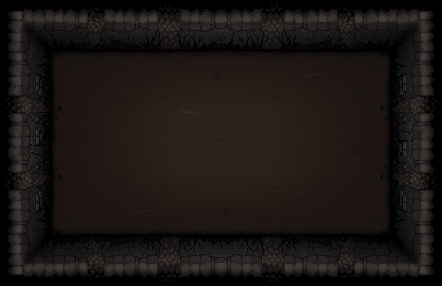
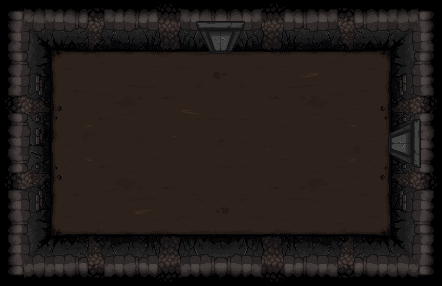
agregado cartas animacion con scroll

diff --git a/src/components/SectionImage/SectionImage.module.css b/src/components/SectionImage/SectionImage.module.css
@@ -1,46 +1,51 @@
-.container_section{
-    image-rendering: pixelated;
-    padding-top: 10rem;
-    padding-bottom: 10rem;
-    width:100%;
-    position: sticky;
-    top: -32%;
-    .scene{
-        overflow: hidden;
-        position: relative;
-        display: flex;
-        align-items: center;
-        justify-content: center;
-        background-repeat: no-repeat;
+
+.container_s{
+    margin-top: 5rem;
+    margin-bottom: 5rem;
+    .container_section{
         width: 100vw;
-        height: calc(100vw * 11 / 17);
-        background-size:contain;
-        background-position: center;
-
-        .shadow{
+        position: sticky;
+        top: calc(-15.2% + 100px);
+        .scene{
             image-rendering: pixelated;
-            position: absolute;
-            top: 0px;
-            bottom: 0px;
-            margin: auto 0 auto 0;
-            right: -4%;
-            width: 100%;
-            height: 110%;
+            image-rendering: crisp-edges;
+            position: relative;
+            display: flex;
+            align-items: center;
+            justify-content: center;
             background-repeat: no-repeat;
-            background-size: cover;
-            background-position: right;
-            transform-origin: right;
-            animation: moveshadow_right 7.3s ease-in-out infinite alternate;
-
-            &:nth-last-child(2){
-                left: -5%;
-                background-position: left;
-                transform-origin: left;
-                animation: moveshadow_left 7.5s ease-in-out infinite alternate;
+            width: 100vw;
+            height: calc(100vw * 11 / 17);
+            background-size:contain;
+            background-position: center;
+            .shadow{
+                image-rendering: pixelated;
+                position: absolute;
+                top: 0px;
+                bottom: 0px;
+                margin: auto 0 auto 0;
+                right: -4%;
+                width: 100%;
+                height: 110%;
+                background-repeat: no-repeat;
+                background-size: cover;
+                background-position: right;
+                transform-origin: right;
+                animation: moveshadow_right 7.3s ease-in-out infinite alternate;
+    
+                &:nth-of-type(2){
+                    left: -5%;
+                    background-position: left;
+                    transform-origin: left;
+                    animation: moveshadow_left 7.5s ease-in-out infinite alternate;
+                }
             }
+    
+            
         }
     }
 }
+
 
 @keyframes moveshadow_right {
     to{

diff --git a/src/components/SectionInfo/SectionInfo.tsx b/src/components/SectionInfo/SectionInfo.tsx
@@ -15,27 +15,29 @@ const SectionInfo = ({ scrollYProgress }: SectionInfoProps) => {
     console.log(latest);
   });
 
-  const x = useTransform(scrollYProgress, [0.04, 0.25, 0.40, 0.55], [0, 55, 55,0]);
-  const opacityLeft = useTransform(scrollYProgress, [0.04, 0.25, 0.40, 0.55], [0, 1,1,0]);
-  const opacityRight = useTransform(scrollYProgress, [0.65, 0.80, 0.90, 0.95], [0, 1,1,0]);
+  const xleft = useTransform(scrollYProgress, [0.25, 0.55], [0, 60]);
+  const xright = useTransform(scrollYProgress, [0.60,  0.90], [0, -60]);
+  const opacityLeft = useTransform(scrollYProgress, [0.25, 0.32, 0.48, 0.55], [0, 1,1,0]);
+  const opacityRight = useTransform(scrollYProgress, [0.60, 0.67, 0.83, 0.90], [0, 1,1,0]);
 
-  const xSmooth = useSpring(x, { stiffness: 50, damping: 10 });
-
+  const xSmoothLeft = useSpring(xleft, { stiffness:150, damping: 20});
+  const opacitySmoothLeft = useSpring(opacityLeft, { stiffness:300, damping: 30});
+  const xSmoothRight = useSpring(xright, {  stiffness:150, damping: 20});
+  const opacitySmoothRight = useSpring(opacityRight, { stiffness:300, damping: 30});
   return (
     <div className={styles.container_section_info}>
       <motion.div
-        style={{ opacity: opacityLeft, x: xSmooth, transition: "linear" }}
+        style={{ opacity: opacitySmoothLeft, x: xSmoothLeft}}
         className={styles.info_left}
       >
-        <h1>ENEMIGOS MORTALES</h1>
+        <div className={styles.monster} style={{backgroundImage:"url(/img/monsters/vis.png)"}}>
+        </div>
+        <h1>ENEMIGOS</h1>
         <p>
-          Enfréntate a todo tipo de enemigos mientras exploras las oscuras y
-          retorcidas habitaciones del sotanó. Desde pequeñas criaturas hasta
-          horribles abominaciones, cada enemigo tiene su propio patrón de ataque
-          y mecánicas únicas.
+        "Enfréntate a diversas criaturas en las sombrías habitaciones del sótano. Cada enemigo tiene ataques y mecánicas únicas que pondrán a prueba tu habilidad."
         </p>
       </motion.div>
-      <motion.div style={{opacity: opacityRight}} className={styles.info_right}>
+      <motion.div style={{opacity: opacitySmoothRight, x:xSmoothRight }} className={styles.info_right}>
         <p>
           "Aprende a esquivar, atacar y sacar el máximo provecho de los objetos
           a tu disposición. ¿Tienes lo necesario para sobrevivir en este

diff --git a/src/components/SectionImage/SectionImage.tsx b/src/components/SectionImage/SectionImage.tsx
@@ -1,19 +1,18 @@
-import React, {
-  useEffect,
-  useRef,
-  useState,
-} from "react";
+import React, { useEffect, useRef, useState } from "react";
 import styles from "./SectionImage.module.css";
-import { motion, MotionValue, useMotionValueEvent, useScroll, useTransform } from "framer-motion";
+import { motion, MotionValue, useScroll, useTransform } from "framer-motion";
 
 interface PropsImagen {
   src: string;
   floor: string;
   height: string;
-  children?: React.ReactNode | ((ScrollYProgressValue: MotionValue<number>) => React.ReactNode);
+  name?: string;
+  children?:
+    | React.ReactNode
+    | ((ScrollYProgressValue: MotionValue<number>) => React.ReactNode);
 }
 
-const SectionImage = ({ src, floor, height, children }: PropsImagen) => {
+const SectionImage = ({ src, floor, height, name, children }: PropsImagen) => {
   const [typeFloor, setTypeFloor] = useState<String>(floor);
   const shadowRef1 = useRef<HTMLDivElement | null>(null);
   const shadowRef2 = useRef<HTMLDivElement | null>(null);
@@ -32,24 +31,31 @@ const SectionImage = ({ src, floor, height, children }: PropsImagen) => {
 
   const { scrollYProgress } = useScroll({
     target: scrollRef,
+    offset:["start end", "end end"]
   });
 
-  const scale = useTransform(scrollYProgress, [0.5,0.8],[1,2])
+  const yscroll = useTransform(scrollYProgress,[0,1],[0,-100])
 
   return (
-    <motion.section  ref={scrollRef}  className="container" style={{ height: `${height}`, scale: scale, transformOrigin:"bottom"}}>
-      <div className={styles.container_section}>
-        <div
+    <motion.section
+      ref={scrollRef}
+      className= {styles.container_s}
+      style={{ height: `${height}`}}
+    >
+      <motion.div style={{y: yscroll}} className={styles.container_section}>
+        <motion.div
           className={styles.scene}
-          style={{ backgroundImage: `url(${src})` }}
+          style={{
+            backgroundImage: `url(${src})`
+          }}
         >
           <div ref={shadowRef1} className={styles.shadow}></div>
           <div ref={shadowRef2} className={styles.shadow}></div>
           {typeof children === "function"
             ? children(scrollYProgress)
             : children}
-        </div>
-      </div>
+        </motion.div>
+      </motion.div>
     </motion.section>
   );
 };

diff --git a/src/components/SectionInfo/SectionInfo.module.css b/src/components/SectionInfo/SectionInfo.module.css
@@ -10,7 +10,7 @@
         image-rendering: pixelated;
         position: absolute;
         top: 28%;
-        left: 10%;
+        left: 11%;
         max-width: 400px;
         height: 100%;
         max-height: 420px;
@@ -22,13 +22,33 @@
         display: flex;
         flex-direction: column;
         align-items: center;
-        padding: 30px 35px;
 
+
+        .monster{
+            margin-top: 3rem;
+            image-rendering: crisp-edges;
+            image-rendering: pixelated;
+            width: 75px;
+            min-height: 76px;
+            background-position: 0px;
+            background-size: auto 100%;
+            background-repeat: no-repeat;
+            animation: monster steps(8) 0.8s infinite;
+        }
         h1{
             font-family: "pixel_i";
-            font-size: 2.5rem;
-            text-align: center;
-            letter-spacing: 0.1rem;
+            font-size: 2.6rem;
+            letter-spacing: 1px;
+            color: var(--text-card);
+            font-weight: 500;
+            margin-top: 1.5rem;
+            margin-bottom: 0;
+        }
+        p{
+            padding: 0rem 3.5rem;
+            line-height: 1.8rem;
+            margin-top: 1.5rem;
+            font-size: 1rem;
         }
     }
 
@@ -40,7 +60,7 @@
         max-width: 470px;
         height: 100%;
         max-height: 180px;
-        right: 15%;
+        right: 11%;
         bottom: 26%;
         background-image: url(/img/UI/letter_background_2.png);
         background-repeat: no-repeat;
@@ -52,5 +72,14 @@
             font-size: 1rem;
             line-height: 1.8rem;
         }
+    }
+}
+
+@keyframes monster {
+    from{
+        background-position: 0px 0px;
+    }
+    to{
+        background-position: -628px 0px;
     }
 }

diff --git a/src/pages/Home/Home.tsx b/src/pages/Home/Home.tsx
@@ -18,7 +18,7 @@ const Home = ({ onLoaded }: Props) => {
         <Banner></Banner>
         <SectionImage
           src={"/img/rooms/necropolis.png"}
-          height="400vh"
+          height="500vh"
           floor="2v1"
         >
           {(ScrollYProgressValue) => (
@@ -34,11 +34,6 @@ const Home = ({ onLoaded }: Props) => {
             <SectionInfo scrollYProgress={ScrollYProgressValue} />
           )}
         </SectionImage>
-{/*        <SectionImage
-          src={"/img/rooms/necropolis.png"}
-          height="100vh"
-          floor="2v1"
-        ></SectionImage>*/}
       </div>
     </>
   );

diff --git a/src/index.css b/src/index.css
@@ -1,6 +1,7 @@
 :root {
   --background-color: black;
   --primary-color:red;
+  --text-card: #77695a;
 }
 
 @font-face{
